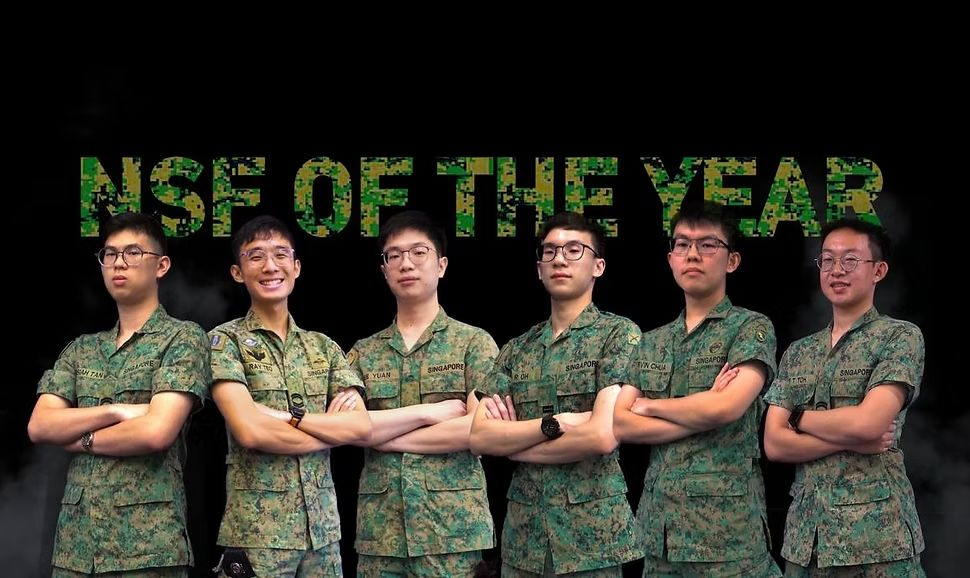
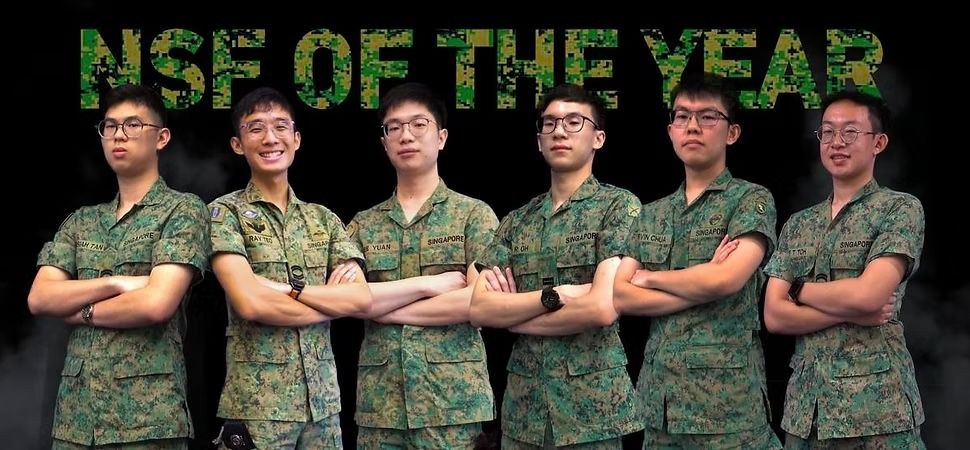
Friendlier copy, new photos, uncropped images, fuller 1D car page
- Mini newspaper: new photos per section; titles always fit one line
- Warmer, get-to-know-me copy; classifieds becomes 'Come say hi'
- Lead headline on one line; fixed-size timeline preview screen
- Article heroes, pairs and gallery show images uncropped at their own shape
- Walkie-Talkie renamed per poster; car retitled 'We Made a Wukong Car'
- Domus board in colour (student numbers blurred); NSFOTY card centred
- 1D car: gear train CAD, test-fit and iteration story

Claude-Session: https://claude.ai/code/session_01Fvmf6P7Pw5mqwtZVTJP9Kw

diff --git a/src/data/site.ts b/src/data/site.ts
@@ -25,13 +25,13 @@ export const masthead = {
 
 // `peek` is the preview shown when you hover a side tab.
 export const sections = [
-  { id: 'front', label: 'COVER', peek: 'Who I am, and a little newspaper to flip through.' },
-  { id: 'work', label: 'WORK', peek: 'Lead story: an AI video editor that asks before it cuts. Plus five more projects.' },
-  { id: 'about', label: 'ABOUT ME', peek: 'Who I am, why I build tools for editors, and a few favourite photos.' },
-  { id: 'education', label: 'EDUCATION', peek: 'Scrub through school, work and the startup on an edit timeline.' },
-  { id: 'screenings', label: 'SCREENINGS', peek: 'Films I directed, shot or edited.' },
-  { id: 'clippings', label: 'CLIPPINGS', peek: 'The Straits Times, Lianhe Zaobao and SUTD.' },
-  { id: 'classifieds', label: 'CLASSIFIEDS', peek: 'Situation wanted. Reply by email or LinkedIn.' },
+  { id: 'front', label: 'COVER', peek: 'Say hello, and flip through the little newspaper.' },
+  { id: 'work', label: 'WORK', peek: "The things I've made, starting with an AI video editor that asks before it cuts." },
+  { id: 'about', label: 'ABOUT ME', peek: 'The person behind the work, and a few favourite photos.' },
+  { id: 'education', label: 'EDUCATION', peek: "Scrub through where I've been, edit-timeline style." },
+  { id: 'screenings', label: 'SCREENINGS', peek: "Films I've made. Grab some popcorn." },
+  { id: 'clippings', label: 'CLIPPINGS', peek: 'A few times the papers caught up with us.' },
+  { id: 'classifieds', label: 'SAY HI', peek: 'Come say hi. My inbox is always open.' },
 ];
 
 // ── Front page ───────────────────────────────────────────────
@@ -49,19 +49,19 @@ export const lead = {
 export const cover = {
   kicker: 'The portfolio of',
   headline: "Hi, I'm Tristan. I make films, build AI tools and design things people use.",
-  intro: 'Year 2 at SUTD, studying Engineering Systems & Design with a second major in Human-Centred Domain Intelligence. Co-founder of DAIdalus, an AI video editor. AI Production Intern at Big 3 Media. Former Army media team lead.',
+  intro: "I'm in my second year at SUTD, and I like telling stories with a camera and building tools that make creative work less painful. These days that means DAIdalus, the AI video editor I co-founded, and my internship at Big 3 Media. Off the clock you'll find me playing guitar, at a concert, or losing a game of chess.",
   roles: ['Filmmaker & editor', 'AI product builder', 'Design student'],
 };
 
 // The mini newspaper on the cover. Each page links to a section of the site.
 // image: the photo on the facing (left) page when this page is open.
 export const flipbook = [
-  { id: 'work', title: 'WORK', line: 'An AI editor, Army films, a printed chapel and a wearable.', image: '/media/daidalus/zaobao-feature.jpg' },
-  { id: 'about', title: 'ABOUT ME', line: 'Who I am, why I build tools for editors, and some favourite photos.', image: '/media/me/concert.jpg' },
-  { id: 'education', title: 'EDUCATION', line: 'School, work and the startup on an edit timeline.', image: '' },
-  { id: 'screenings', title: 'SCREENINGS', line: 'Films I directed, shot or edited.', image: '/media/army/nsfoty-title.jpg', fit: 'contain' },
-  { id: 'clippings', title: 'CLIPPINGS', line: 'The Straits Times, Lianhe Zaobao and SUTD.', image: '/media/daidalus/best-shark-trophy.jpg' },
-  { id: 'classifieds', title: 'SAY HI', line: 'Open to internships and collaborations. Reply by email.', image: '/media/me/pall-mall.jpg' },
+  { id: 'work', title: 'WORK', line: "The things I've made: films, an AI video editor, a printed chapel and a wearable.", image: '/media/daidalus/sutd-booth.jpg' },
+  { id: 'about', title: 'ABOUT ME', line: 'The person behind the work: guitars, travels and a few favourite photos.', image: '/media/me/abang.jpg' },
+  { id: 'education', title: 'EDUCATION', line: "Where I've learnt, from school to SUTD, laid out on an edit timeline.", image: '/media/me/tmjc.jpg' },
+  { id: 'screenings', title: 'SCREENINGS', line: "Films I've directed, shot and edited. Grab some popcorn.", image: '/media/army/night-shoot.jpg' },
+  { id: 'clippings', title: 'CLIPPINGS', line: 'A few times the papers caught up with us.', image: '/media/daidalus/best-shark-trophy.jpg' },
+  { id: 'classifieds', title: 'SAY HI', line: 'Got a project, an idea or a good song recommendation? Come say hi.', image: '/media/me/closeup.jpg' },
 ];
 
 export const editorBox = {
@@ -92,8 +92,8 @@ export const stories = [
   },
   {
     kicker: 'Product & AI',
-    headline: 'Turn Left at the Red Building: Directions by Landmark',
-    dek: "A wearable that compares Street View with what's around you. I designed the enclosure.",
+    headline: 'Walkie-Talkie: Your Friendly Voice for a Safe Journey',
+    dek: "A wearable navigation buddy that compares Street View with what's around you. I designed the enclosure.",
     byline: 'Walkie-Talkie · 2026',
     href: '/work/walkie-talkie/',
     image: { src: '/media/walkie/context.jpg', alt: 'Render of a walker using the device in a park' },
@@ -104,7 +104,7 @@ export const stories = [
 export const briefs = [
   { kicker: 'Space & design', headline: 'My Room, Drawn, Animated and Modelled', href: '/work/ticking-away/', image: { src: '/media/room/isometric.jpg', alt: "Isometric render of Tristan's room" } },
   { kicker: 'Architecture', headline: 'Renders and Models for DP Architects', href: '/work/dp-architects/', image: { src: '/media/dp/rohini-japanese-park.jpg', alt: 'Massing render of the Rohini hub' } },
-  { kicker: 'Engineering', headline: 'A Gear-Train Car. It Has Horns.', href: '/work/1d-car/', image: { src: '/media/car/car.jpg', alt: '3D-printed car with pipe-cleaner horns' } },
+  { kicker: 'Engineering', headline: 'We Made a Wukong Car', href: '/work/1d-car/', image: { src: '/media/car/car.jpg', alt: '3D-printed car with pipe-cleaner horns' } },
 ];
 
 // ── About me ─────────────────────────────────────────────────
@@ -189,8 +189,9 @@ export const experience = [
 ];
 
 export const classified = {
-  heading: 'SUTD STUDENT SEEKS WORK.',
-  body: 'Internships and collaborations in video production, generative AI, product design and creative technology. Directs, edits, models, prototypes. English and Mandarin, conversational Cantonese.',
+  title: 'Come say hi',
+  heading: 'ALWAYS UP FOR A GOOD CHAT.',
+  body: "Whether it's a project, a collaboration, an internship, or you just want to talk films, AI or guitars, my inbox is open. I'll reply in English or Mandarin, and I can get by in Cantonese.",
 };
 
 // ─────────────────────────────────────────────────────────────
@@ -222,6 +223,7 @@ export interface CaseStudy {
   heroImage: string;
   heroAlt: string;
   heroVideo?: string;
+  heroVideoAlt?: string; // describes the hero video (used as its caption)
   heroFit?: 'cover' | 'contain'; // 'contain' shows the whole hero image instead of cropping it
   facts: { k: string; v: string }[];
   blocks: Block[];
@@ -246,6 +248,7 @@ export const cases: CaseStudy[] = [
     heroImage: '/media/daidalus/labyrinth.jpg',
     heroAlt: 'Etched labyrinth by the sea at night, with Icarus flying overhead',
     heroVideo: '/media/daidalus/intro-loop.mp4',
+    heroVideoAlt: 'The DAIdalus intro animation: a labyrinth by the sea, then the logo',
     facts: [
       { k: 'ROLE', v: 'Co-founder · Product & Business' },
       { k: 'TIMELINE', v: 'Oct 2025 → present' },
@@ -383,21 +386,22 @@ export const cases: CaseStudy[] = [
         '<strong>Ideation</strong> on the form and the sequence from chapel to villa to adoration room.',
       ] },
       { type: 'image', src: '/media/domus/model.jpg', alt: 'Final 3D-printed model with grass, trees and figures', caption: 'THE FINAL PRINTED MODEL' },
-      { type: 'image', src: '/media/domus/presentation-board.jpg', alt: 'Domus Orationis presentation board', caption: 'PRESENTATION BOARD · GROUP 6' },
+      { type: 'image', src: '/media/domus/presentation-board.jpg', alt: 'Domus Orationis presentation board', caption: 'PRESENTATION BOARD · GROUP 6', colour: true },
     ],
     next: 'walkie-talkie',
   },
   {
     slug: 'walkie-talkie',
     title: 'Walkie-Talkie',
-    headline: 'Turn Left at the Red Building: Directions by Landmark',
-    oneLiner: 'A wearable navigation buddy for older people: it sees what you see, and tells you where to go by the landmarks around you.',
+    headline: 'Walkie-Talkie',
+    oneLiner: 'Your friendly voice for a safe journey: a wearable navigation buddy for older people that sees what you see, and tells you where to go by the landmarks around you.',
     byline: 'CAD enclosure, backend and AI pipeline · 2026',
     color: colors.sky,
     meta: 'PRODUCT & AI · WEARABLE · 2026',
     heroImage: '/media/walkie/context.jpg',
     heroAlt: 'Render of a walker using the device in a park',
     heroVideo: '/media/walkie/spin.mp4',
+    heroVideoAlt: 'The Walkie-Talkie enclosure turning under studio light',
     facts: [
       { k: 'MY ROLE', v: 'CAD enclosure design · backend, API and AI pipeline · showcase film' },
       { k: 'TEAM', v: 'Group F "Cavemen", with Alexander B., Soham and Maxwell' },
@@ -489,21 +493,46 @@ export const cases: CaseStudy[] = [
   {
     slug: '1d-car',
     title: '1D Car Challenge',
-    headline: 'A Gear-Train Car. It Has Horns.',
-    oneLiner: "A gear-train car, designed and 3D printed for SUTD's Physical World module.",
+    headline: 'We Made a Wukong Car',
+    oneLiner: "A spring-powered, gear-driven toy car, modelled in Fusion 360 and 3D printed for SUTD's Physical World module.",
     byline: 'Physical World · 2025',
     color: colors.mint,
     meta: 'ENGINEERING · PHYSICAL WORLD · 2025',
     heroImage: '/media/car/car.jpg',
     heroAlt: 'Black 3D-printed car with red and yellow pipe-cleaner horns',
     heroVideo: '/media/car/run.mp4',
+    heroVideoAlt: 'The car on a test run',
     facts: [
+      { k: 'BRIEF', v: 'A mechanically powered toy car: carry 200–400 g across a 2.5 m obstacle course in under 10 seconds' },
+      { k: 'LIMITS', v: 'Max 25 × 12 cm · no electric or chemical power · every part custom-made · S$50 budget' },
       { k: 'TOOLS', v: 'Fusion 360 · 3D printing' },
       { k: 'MODULE', v: 'SUTD 10.015 Physical World' },
     ],
     blocks: [
-      { type: 'text', label: '01 — THE CHALLENGE', body: ['A physics challenge for the Physical World module: design a gear-train car, model it and 3D print it, then see how it runs. Ours has horns.'] },
-      { type: 'image', src: '/media/car/car.jpg', alt: 'The finished car', caption: 'THE FINISHED CAR', video: '/media/car/run.mp4' },
+      { type: 'text', label: '01 — THE CHALLENGE', heading: 'Ramps, steps and gaps, powered by a spring.', body: [
+        'The Physical World brief: design and build a toy car that runs on stored mechanical energy only, then carry at least 200 g of load across a 2.5 m course of 10–15° ramps, steps up to 4 cm, gaps and bouncy patches, from rest, in under 10 seconds.',
+        'Every part had to be made by us, so there was no buying a gearbox. We made ours a Wukong car, horns and all.',
+      ] },
+      { type: 'text', label: '02 — THE GEAR TRAIN', heading: 'Getting the spring\'s energy to the wheels.', body: [
+        'The car is driven by a wound spring. A train of gears carries its energy from the spring to the wheels, so the gear sizes decide how much push the car has on a ramp and how fast it can cover the course.',
+        'I modelled the gears in Fusion 360 and checked how each pair meshed in plan before anything was printed.',
+      ] },
+      { type: 'pair', items: [
+        { src: '/media/car/gears-iso.jpg', alt: 'Fusion 360 model of the gear train: two large drive gears linked by smaller gears', caption: 'The gear train in Fusion 360' },
+        { src: '/media/car/gears-top.jpg', alt: 'Top-down view of the gear train showing how the gears mesh', caption: 'Top-down: checking the mesh' },
+      ] },
+      { type: 'pair', items: [
+        { src: '/media/car/gear-test-fit.jpg', alt: 'Hands holding the first printed gears in a line, with the coiled spring in the middle gear', caption: 'First print, test-fitted around the spring · 18 Nov 2025' },
+        { src: '/media/car/gear-a.jpg', alt: 'CAD model of Gear A with its housing and pinion', caption: 'Gear A, ready to print' },
+      ] },
+      { type: 'text', label: '03 — PRINT, TEST, REPRINT', heading: 'Four rounds of prints.', body: [
+        'The first body was a simple open box between four ring wheels. Testing it led to an improved version, and the gears, gear housing, wheel axles and fasteners were reprinted over four rounds (18, 19 and 20 November, then 2 December) as each fit was tightened.',
+      ] },
+      { type: 'pair', items: [
+        { src: '/media/car/body-v1.jpg', alt: 'First CAD model of the car body: an open box between four ring wheels', caption: 'Body, first version' },
+        { src: '/media/car/body-v2.jpg', alt: 'Improved CAD model of the car body with spoked wheels', caption: 'Body, improved' },
+      ] },
+      { type: 'image', src: '/media/car/car.jpg', alt: 'The finished black 3D-printed car with its horns', caption: 'The finished Wukong car', video: '/media/car/run.mp4', narrow: true },
     ],
     next: 'daidalus',
   },

diff --git a/src/styles/global.css b/src/styles/global.css
@@ -104,7 +104,10 @@ a { color: inherit; }
 
 /* front */
 .front { display: grid; grid-template-columns: minmax(0, 1fr) 320px; padding: 28px 0 40px; }
-.front .lead { padding-right: 32px; gap: 16px; text-align: center; }
+.front .lead { padding-right: 32px; gap: 16px; text-align: center; container-type: inline-size; }
+/* the lead headline sits on one line, scaled to the column it's in */
+.front .lead .h-lead { white-space: nowrap; font-size: min(52px, 4.6cqw); }
+@media (max-width: 1100px) { .front .lead .h-lead { white-space: normal; font-size: clamp(30px, 4.4vw, 42px); } }
 .front .lead .dek { max-width: 640px; margin: 0 auto; }
 .front aside { padding-left: 28px; display: flex; flex-direction: column; gap: 22px; }
 .redbox { border: 1.5px solid var(--red); padding: 22px 20px; display: flex; flex-direction: column; gap: 12px; }
@@ -144,7 +147,9 @@ a { color: inherit; }
 .factbox dd { margin: 0; font-size: 16px; line-height: 1.4; }
 .gallery-head { padding: 18px 0 16px; }
 .gallery-head h3 { margin: 0; }
-.gallery { display: grid; grid-template-columns: repeat(4, minmax(0, 1fr)); gap: 24px; margin: 0; padding: 0 0 56px; list-style: none; }
+.gallery { display: flex; gap: 24px; align-items: flex-start; margin: 0; padding: 0 0 56px; list-style: none; }
+.gallery li { flex: var(--r, 1) 1 0; min-width: 0; }
+.gallery .photo img.bw { width: 100%; height: auto; display: block; }
 .gallery figure { margin: 0; }
 .slot { aspect-ratio: 4 / 5; border: 1px dashed var(--ink); display: flex; align-items: center; justify-content: center; background: repeating-linear-gradient(135deg, rgba(21,20,19,.04) 0 8px, transparent 8px 16px); }
 .slot span { font-family: var(--mast); font-size: 11px; font-weight: 700; letter-spacing: .16em; color: var(--grey); }
@@ -159,10 +164,13 @@ a { color: inherit; }
 .nle-bar { display: flex; justify-content: space-between; align-items: center; flex-wrap: wrap; gap: 12px; padding: 10px 16px; border-bottom: 1px solid #3A3733; font-size: 12px; color: #B8B1A5; }
 .nle-bar b { color: var(--paper); font-weight: 600; }
 .monitor { display: grid; grid-template-columns: minmax(0, 1.6fr) minmax(0, 1fr); border-bottom: 1px solid #3A3733; }
-.screen { position: relative; min-height: 250px; margin: 16px; background: #000; border: 1px solid #3A3733; display: flex; flex-direction: column; justify-content: center; align-items: center; text-align: center; padding: 28px 40px; gap: 10px; overflow: hidden; }
-.screen .now { margin: 0; font-size: 11px; letter-spacing: .14em; color: var(--red); text-transform: uppercase; }
-.screen h3 { margin: 0; font-family: var(--serif); font-weight: 500; font-size: clamp(26px, 2.7vw, 38px); line-height: 1.08; color: #F6F1E7; }
-.screen p.sub { margin: 0; font-family: var(--serif); font-size: 17px; color: #C9C2B5; }
+.screen { position: relative; height: 270px; margin: 16px; background: #000; border: 1px solid #3A3733; display: flex; flex-direction: column; justify-content: center; align-items: center; text-align: center; padding: 28px 40px; gap: 10px; overflow: hidden; container-type: size; }
+.screen .now { margin: 0; font-size: 11px; letter-spacing: .14em; color: var(--red); text-transform: uppercase; white-space: nowrap; }
+.screen h3 { margin: 0; font-family: var(--serif); font-weight: 500; line-height: 1.08; color: #F6F1E7;
+  /* fixed screen: long names shrink to fit two lines instead of growing the screen */
+  font-size: max(20px, min(38px, calc(300cqw / var(--len, 20)), 15cqh));
+  display: -webkit-box; -webkit-line-clamp: 2; -webkit-box-orient: vertical; overflow: hidden; text-wrap: balance; }
+.screen p.sub { margin: 0; font-family: var(--serif); font-size: min(17px, 4.2cqw); line-height: 1.3; color: #C9C2B5; display: -webkit-box; -webkit-line-clamp: 2; -webkit-box-orient: vertical; overflow: hidden; }
 .screen .cut { animation: cut .35s ease; }
 @keyframes cut { from { opacity: 0; transform: translateY(6px); } to { opacity: 1; transform: none; } }
 .safe { position: absolute; inset: 12px; border: 1px dashed #2E2B28; pointer-events: none; z-index: 1; }
@@ -173,7 +181,8 @@ a { color: inherit; }
 .meta p { margin: 0; color: #8D867B; letter-spacing: .12em; }
 .meta dl { margin: 0; display: grid; grid-template-columns: 88px 1fr; gap: 8px 12px; }
 .meta dt { color: #8D867B; }
-.meta dd { margin: 0; color: var(--paper); }
+.meta dd { margin: 0; color: var(--paper); white-space: nowrap; overflow: hidden; text-overflow: ellipsis; min-width: 0; }
+.meta dl { grid-template-columns: 88px minmax(0, 1fr); }
 .ctrls { display: flex; align-items: center; flex-wrap: wrap; gap: 8px; padding: 10px 16px; border-bottom: 1px solid #3A3733; }
 .ctrls button { min-height: 40px; min-width: 44px; padding: 0 12px; background: #24221F; color: var(--paper); border: 1px solid #4A4640; font-family: var(--mono); font-size: 13px; cursor: pointer; }
 .ctrls button:hover { border-color: var(--paper); }
@@ -257,8 +266,11 @@ a { color: inherit; }
 .art-head h2 { margin: 0; font-weight: 500; font-size: clamp(38px, 4.6vw, 64px); line-height: 1.02; letter-spacing: -.018em; }
 .art-head .dek { max-width: 720px; font-size: 20px; line-height: 1.45; }
 .art-hero { margin: 0 0 40px; }
-.art-hero .photo { aspect-ratio: 21 / 9; }
-.art-hero video { width: 100%; height: 100%; object-fit: cover; }
+/* heroes keep their own shape: nothing is cropped, tall ones are capped and centred */
+.art-hero { text-align: center; }
+.art-hero .hero-media { display: inline-block; max-width: 100%; vertical-align: top; }
+.art-hero .hero-media > .bw, .art-hero .hero-media > video { display: block; width: auto; height: auto; max-width: 100%; max-height: min(78vh, 780px); object-fit: contain; }
+.art-hero .cap { text-align: left; }
 .art { display: grid; grid-template-columns: 250px minmax(0, 1fr) 280px; border-top: 1px solid var(--ink); }
 .art-left { padding: 24px 28px 0 0; }
 .art-left .redbox { position: sticky; top: 76px; gap: 0; }
@@ -279,8 +291,10 @@ a { color: inherit; }
 .art-body figure { margin: 0; }
 .art-body .zoom { display: block; cursor: zoom-in; }
 .art-body .photo.narrow { max-width: 500px; margin: 0 auto; }
-.pair { display: grid; grid-template-columns: 1fr 1fr; gap: 16px; }
-.pair .photo { aspect-ratio: 4 / 3; }
+/* pairs share one height; each photo keeps its own shape (width follows its ratio) */
+.pair { display: flex; gap: 16px; align-items: flex-start; }
+.pair figure { flex: var(--r, 1) 1 0; min-width: 0; }
+.pair .photo img.bw, .pair video { width: 100%; height: auto; display: block; }
 .stats { display: grid; grid-template-columns: repeat(auto-fit, minmax(150px, 1fr)); margin: 0; padding: 0; list-style: none; border-top: 3px double var(--ink); border-bottom: 1px solid var(--ink); }
 .stats li { padding: 16px 14px; margin: 0; }
 .stats li::before { display: none; }
@@ -348,7 +362,7 @@ a { color: inherit; }
 .mp-index i { font-style: normal; color: var(--red); }
 .mp-hint { align-self: flex-end; font-family: var(--mast); font-size: 3.4cqw; font-weight: 700; letter-spacing: .16em; color: var(--red); }
 .mp-top { display: flex; justify-content: space-between; padding-bottom: 2cqh; border-bottom: 3px double var(--ink); font-family: var(--mast); font-size: 3.4cqw; font-weight: 700; letter-spacing: .16em; }
-.mp-title { margin-top: 4cqh; font-family: var(--mast); font-stretch: 125%; font-weight: 900; font-size: 12.5cqw; line-height: .9; letter-spacing: -.02em; overflow-wrap: anywhere; }
+.mp-title { margin-top: 4cqh; font-family: var(--mast); font-stretch: 125%; font-weight: 900; font-size: min(15cqw, calc(96cqw / var(--len, 6))); line-height: .9; letter-spacing: -.02em; white-space: nowrap; }
 .mp-line { font-family: var(--serif); font-size: 6cqw; line-height: 1.25; }
 .mp-cols { flex: 1; display: grid; grid-template-columns: 1fr 1fr; gap: 6cqw; min-height: 0; }
 .mp-cols i { background: repeating-linear-gradient(180deg, rgba(21,20,19,.22) 0 1px, transparent 1px 3.2cqh); }
@@ -398,7 +412,8 @@ a { color: inherit; }
   .front, .about, .screenings, .duo-col, .art { grid-template-columns: 1fr; }
   .about-portrait { padding-right: 0; }
   .about-copy { padding: 28px 0 0; border-left: 0; }
-  .gallery { grid-template-columns: 1fr 1fr; gap: 14px; }
+  .gallery { flex-wrap: wrap; gap: 14px; }
+  .gallery li { flex: var(--r, 1) 1 calc(var(--r, 1) * 40vw); }
   .front .lead, .screenings > div:first-child, .duo-col > div:first-child { padding-right: 0; }
   .front aside, .screenings aside, .duo-col > div:last-child, .factbox { padding-left: 0; border-left: 0; margin-top: 32px; }
   .work-grid { grid-template-columns: minmax(0, 1fr); }
@@ -407,13 +422,15 @@ a { color: inherit; }
   .work-grid > .briefs { display: flex; border-top: 0; margin-top: 0; padding-top: 0; }
   .brief { border-bottom: 1px solid var(--ink); }
   .monitor { grid-template-columns: 1fr; }
+  .screen { height: 230px; padding: 22px 24px; }
   .meta { padding: 0 16px 16px; }
   .clips { grid-template-columns: 1fr; }
   .clips li + li { border-left: 0; border-top: 1px solid var(--ink); }
   .appts div { grid-template-columns: 1fr; gap: 4px; }
   .art-body { border-right: 0; padding-right: 0; }
   .art-right { padding-left: 0; }
-  .pair { grid-template-columns: 1fr; }
+  .pair { flex-direction: column; }
+  .pair figure { flex: none; width: 100%; }
   .next-story { flex-direction: column; }
   .next-story .h { text-align: left; }
   .minibar .in { padding: 0 18px; }

diff --git a/src/lib/dims.ts b/src/lib/dims.ts
@@ -1,0 +1,19 @@
+// Reads an image's width/height ratio from /public at build time, so rows of
+// photos can share a height without cropping anything.
+import { readFileSync } from 'node:fs';
+import { join } from 'node:path';
+import { imageSize } from 'image-size';
+
+const cache = new Map<string, number>();
+export function ratio(src: string, fallback = 16 / 9): number {
+  if (!src || /\.(mp4|webm|mov)$/i.test(src)) return fallback;
+  if (cache.has(src)) return cache.get(src)!;
+  try {
+    const { width, height } = imageSize(readFileSync(join(process.cwd(), 'public', src)));
+    const r = width && height ? width / height : fallback;
+    cache.set(src, r);
+    return r;
+  } catch {
+    return fallback;
+  }
+}
